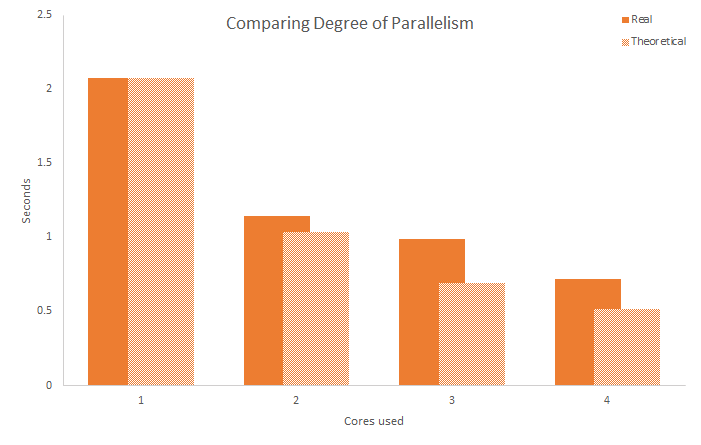
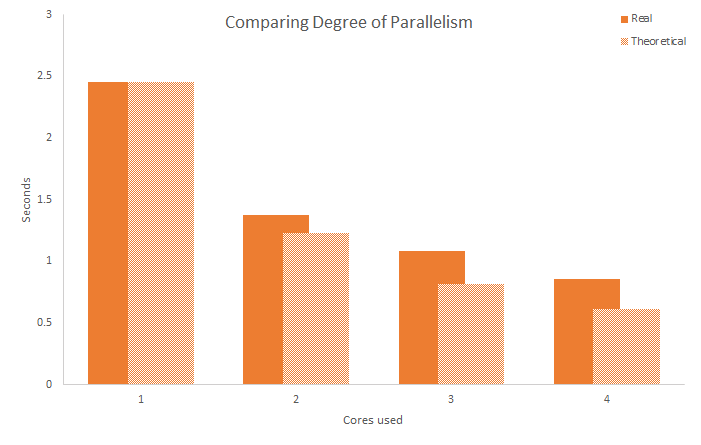
changes made to data

diff --git a/blog/avl-tree-runtimes-c++-vs-haskell.md b/blog/avl-tree-runtimes-c++-vs-haskell.md
@@ -1,0 +1,85 @@
+----
+title: Comparing AVL Trees in C++ and Haskell
+author: <a href="//github.com/cheripai">Dat Do</a>
+----
+
+This post compares the runtimes of [AVL tree](https://en.wikipedia.org/wiki/AVL_tree) operations in C++ vs Haskell.
+In particular, we insert 713,000 strings from a file into an AVL Tree.
+This is a $O(n \log n)$ operation.
+But we want to investigate what the constant factor looks like in different situations.
+
+**Experimental setup:**
+All the code for these tests is available in the [github repository](https://github.com/CheriPai/AVLComparison).
+The C++ AVL tree was created in a data structures course that I took recently and the Haskell AVL tree is from the Haskell library [`Data.Tree.AVL`](http://hackage.haskell.org/package/AvlTree-4.2/docs/Data-Tree-AVL.html).
+Additionally, the Haskell code stores the strings as `ByteString`s because they are much more efficient than the notoriously slow `String`.
+To see how the runtime is affected by files of different sizes, the file was first partitioned into 10 segments.
+The first segment has 71,300 words, the second 71,300 * 2 words, and so on.
+Both the C++ and Haskell programs were compiled with the `-O2` flag for optimization.
+The test on each segment is the average runtime of three separate runs.
+
+Here's the results:
+
+![C++vHaskell](/img/CvsH.png)
+
+
+C++ is about 25% faster than Haskell on this test.
+I guess this is because Haskell operates on immutable data.
+Every time a new element is to be inserted into the Haskell AVL tree, new parent nodes must be created because the old parent nodes cannot be changed.
+This creates quite a bit of overhead.
+C++ on the other hand, does have mutable data and can simply change the node that a parent node is pointing to.
+This is faster than making a whole new copy like the Haskell code does.
+
+*Is there an easy way to speed up our Haskell code?*
+
+There is a Haskell library called [`monad-par`](https://hackage.haskell.org/package/monad-par) that makes parallel computations really convenient.
+We'll try to speed up our program with this library.
+
+You might think that it is unfair to compare multithreaded Haskell against C++ that is not multithreaded.
+And you're absolutely right!
+But let’s be honest, manually working with [`pthreads`](http://linux.die.net/man/7/pthreads) in C++ is quite the headache, but parallism in Haskell is super easy.
+
+Here’s a snippet of how parallelized code works running on two threads.
+[FIXME: add a brief explanation]
+
+```
+runParIO $ do
+    t1 <- spawn (return $ load empty $ l !! 0)
+    t2 <- spawn (return $ load empty $ l !! 1)
+    t3 <- spawn (return $ load empty $ l !! 2)
+    t4 <- spawn (return $ load empty $ l !! 3)
+    t1' <- get t1
+    t2' <- get t2
+    t3' <- get t3
+    t4' <- get t4
+    let b' = union fstCC t1' t2'
+    let t' = union fstCC t3' t4'
+    let bt = union fstCC b' t'
+    return ()
+```
+
+Great, so now that the Haskell code has been parallelized, we can compile and run the program again to see the difference. To compile for parallelism, we must use some special flags.
+
+```
+ghc –O2 filename -rtsopts –threaded
+```
+
+And to run the program (N4 means to run the program on 4 cores).
+
+```
+./filename +RTS –N4
+```
+
+![C++vHaskell4](/img/CvsH4.png)
+
+Impressively, Haskell now gets much better runtimes than C++.
+
+Now that we know Haskell is capable of dramatically increasing its speeds through parallelism, it would be interesting to see how the runtime is affected by the degree of parallelism.
+According to [Amdahl’s law](http://en.wikipedia.org/wiki/Amdahl%27s_law), a program that is 100% parallelized will see a proportional speed up based on the number of threads of execution. For example, if a program that is 100% parallelized takes 2 seconds to run on 1 thread, then it should take 1 second to run using 2 threads. The code used for our test, however, is not 100% parallelized since there a union operation performed at the end to combine the trees created by the separate threads. The union of the trees is a $O(n)$ operation while the insertion of the strings into the AVL tree is a $O\left(\frac{n \log n }{p}\right)$ operation, where $p$ is the number of threads. Therefore, the runtime for our test should be
+
+$$O\left(\frac{n\log{n}}{p} + n\right)$$
+
+Here is a graph showing the runtime of the operation on the largest set (713,000 strings) across increasing levels of parallelism.
+
+![HaskellParallelization](/img/HParallelism.png)
+
+Taking a look at the results, we can see that the improvement in runtime does not fit the 100% parallelized theoretical model, but does follow it to some extent. Rather than the 2 core runtime being 50% of the 1 core runtime, the 2 core runtime is 55% of the 1 core runtime, with decreasing efficiency as the number of cores increases. Though, it is clear that there are significant improvements in speed through the use of more processor cores and that parallelism is an easy way to get better runtime speeds with little effort.
